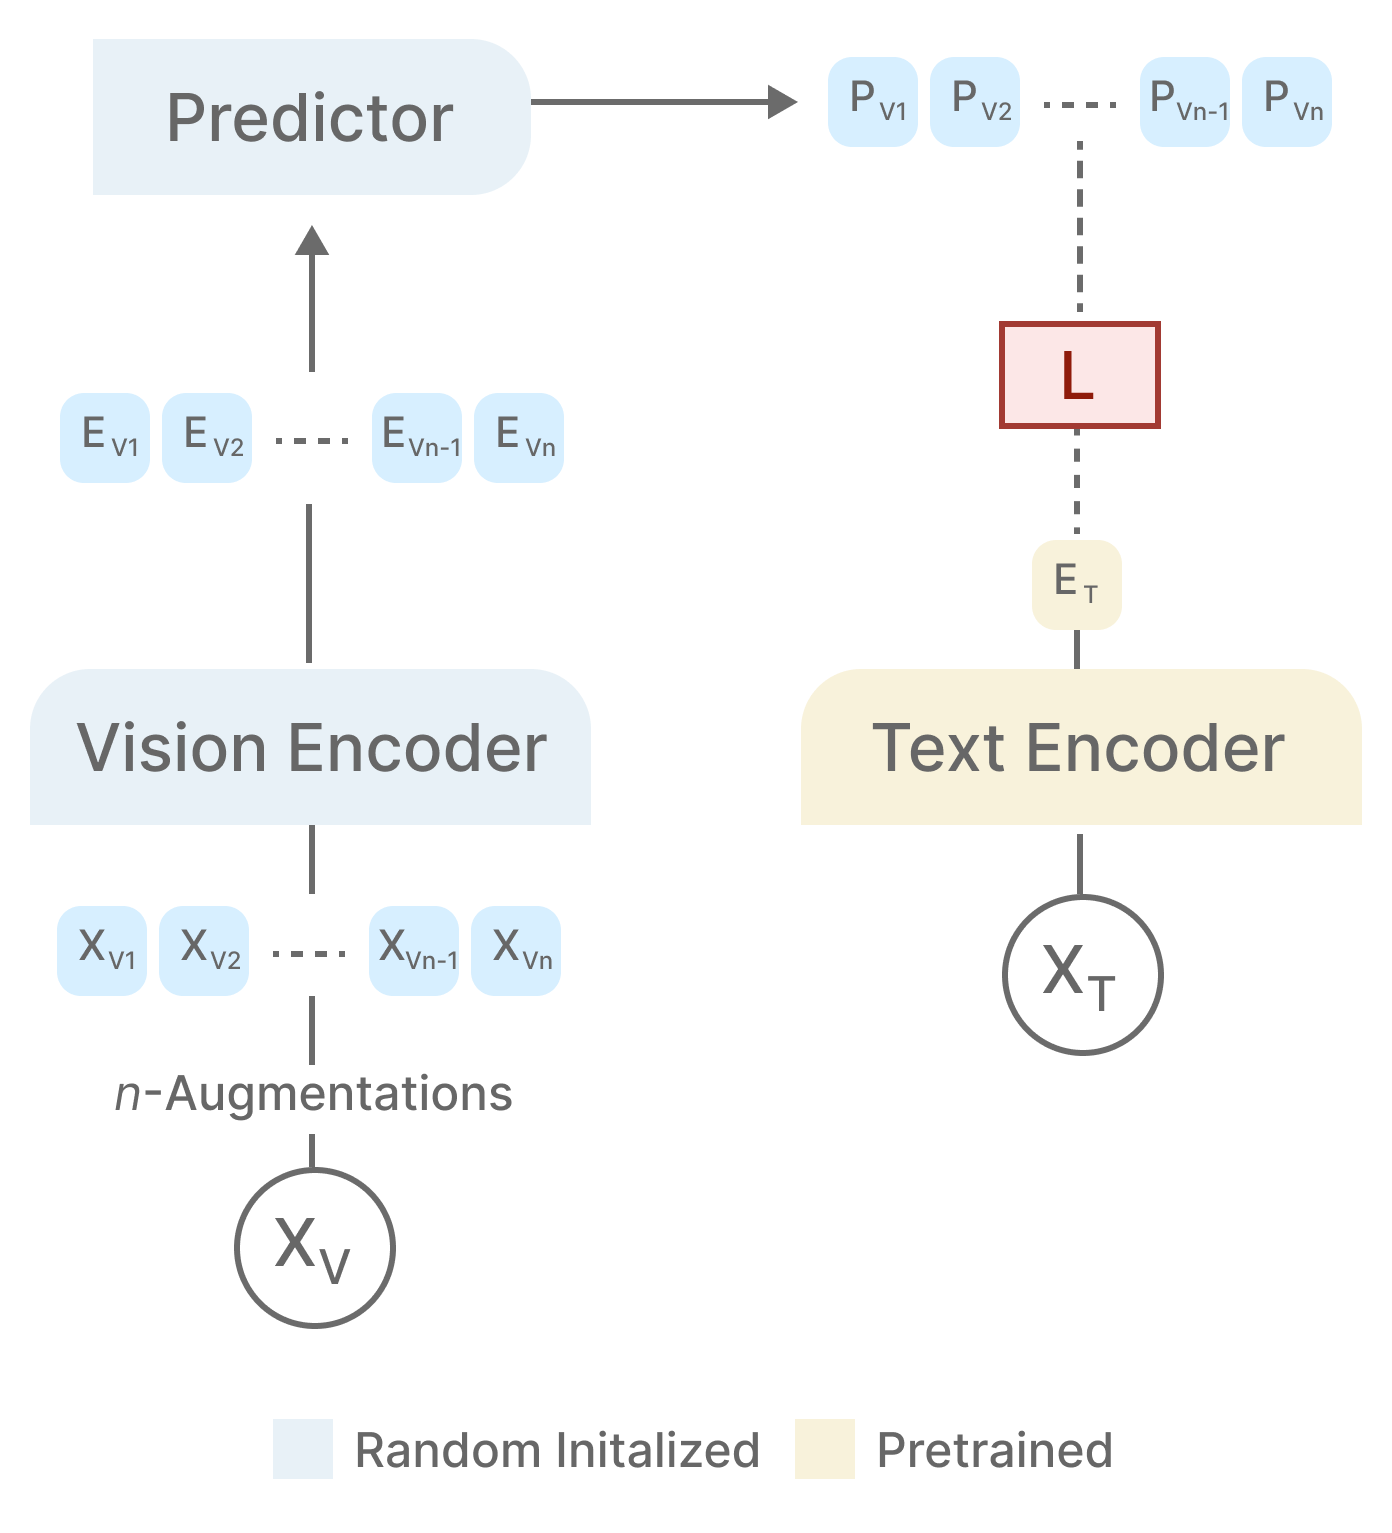
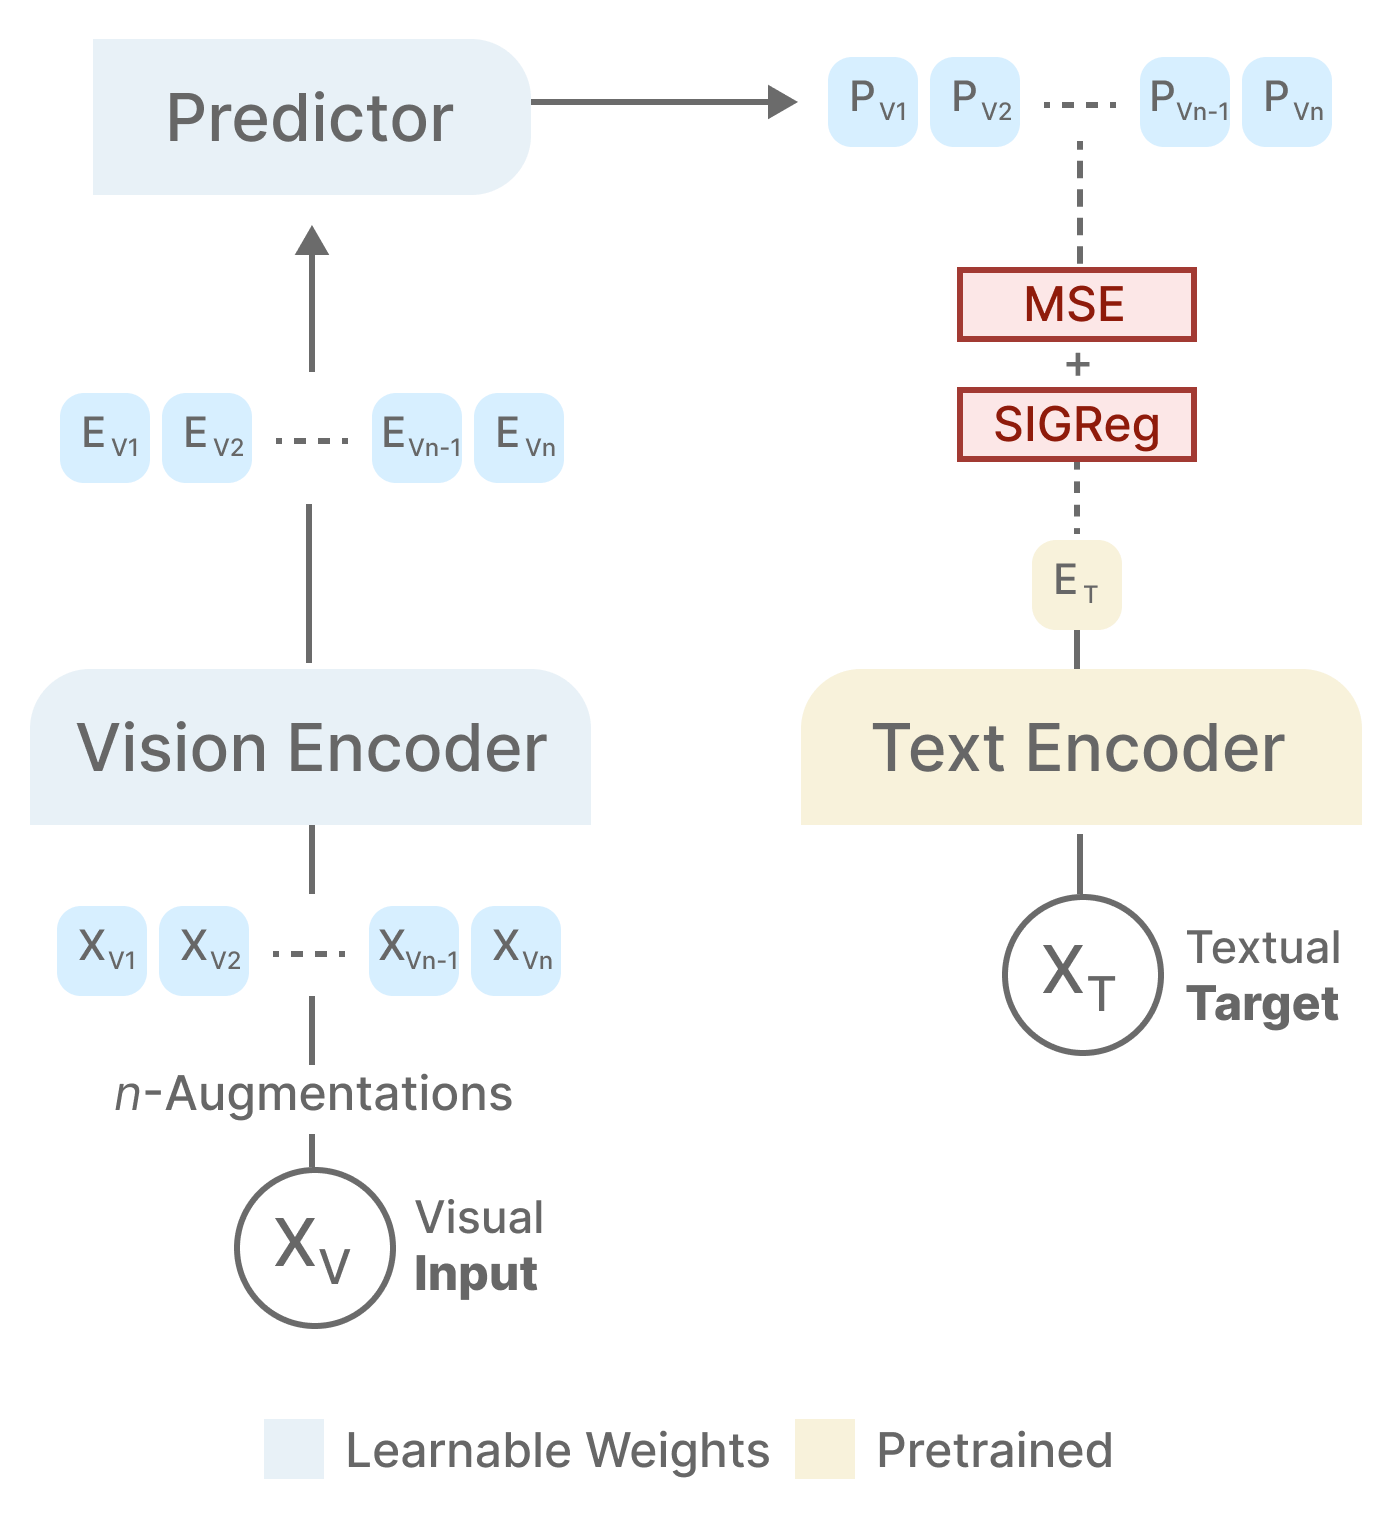
remove mix-blend-mode; nova.png now has transparent background

diff --git a/stylesheet.css b/stylesheet.css
@@ -113,10 +113,6 @@ h2 {
   display: block;
 }
 
-.paper.highlighted .paper-thumb img {
-  mix-blend-mode: multiply;
-}
-
 .paper-info {
   flex: 1;
   font-size: 14px;